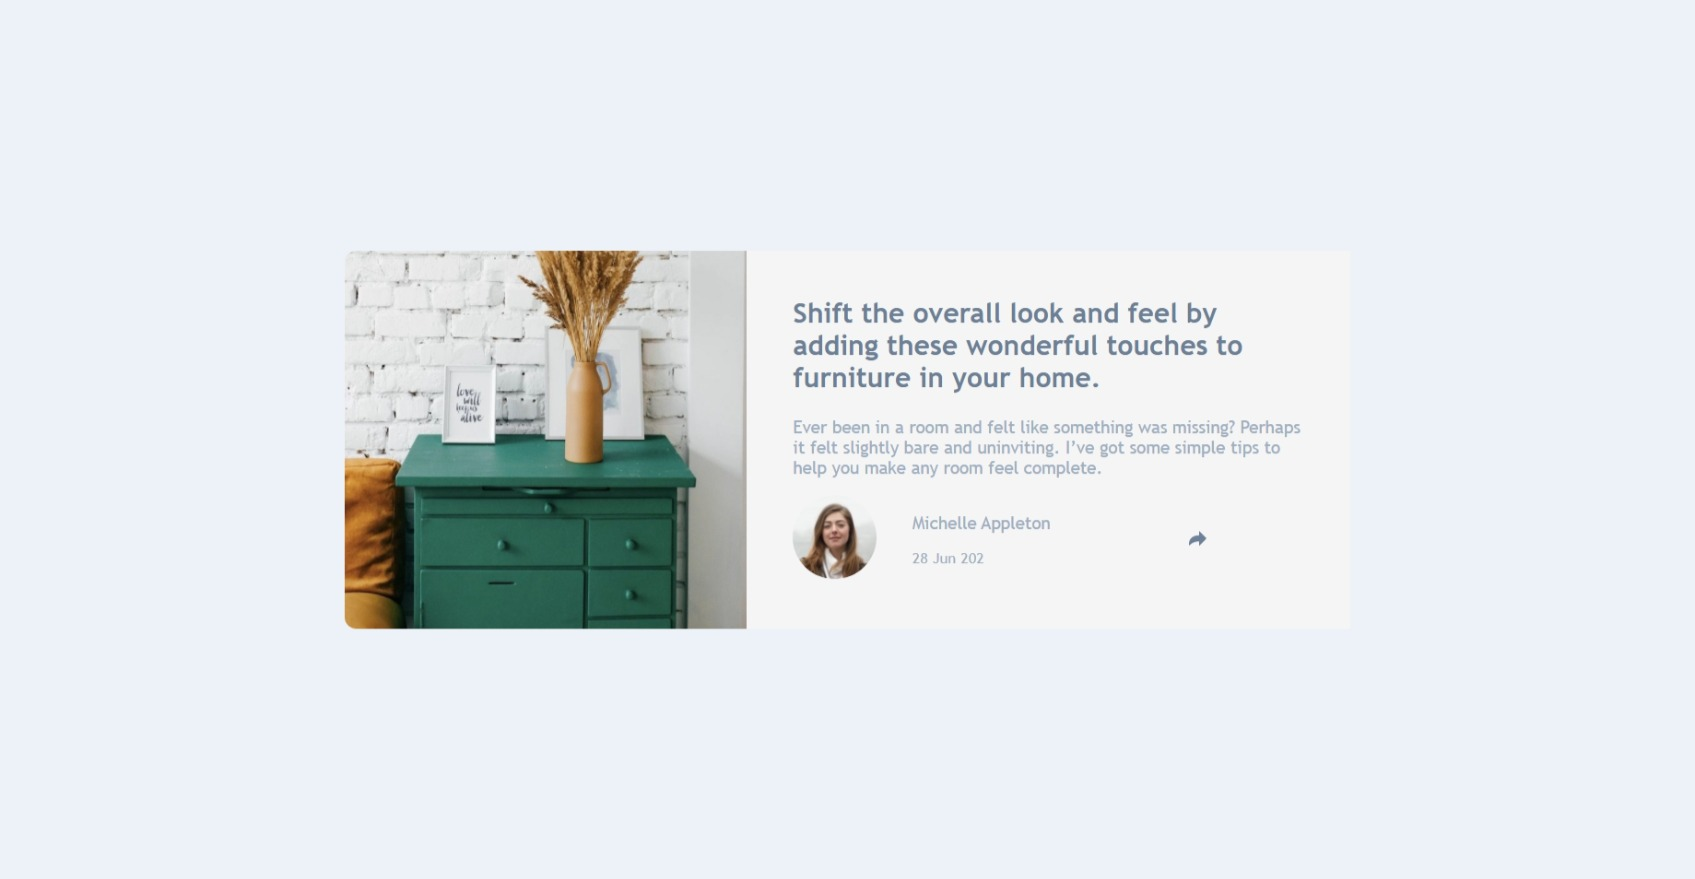
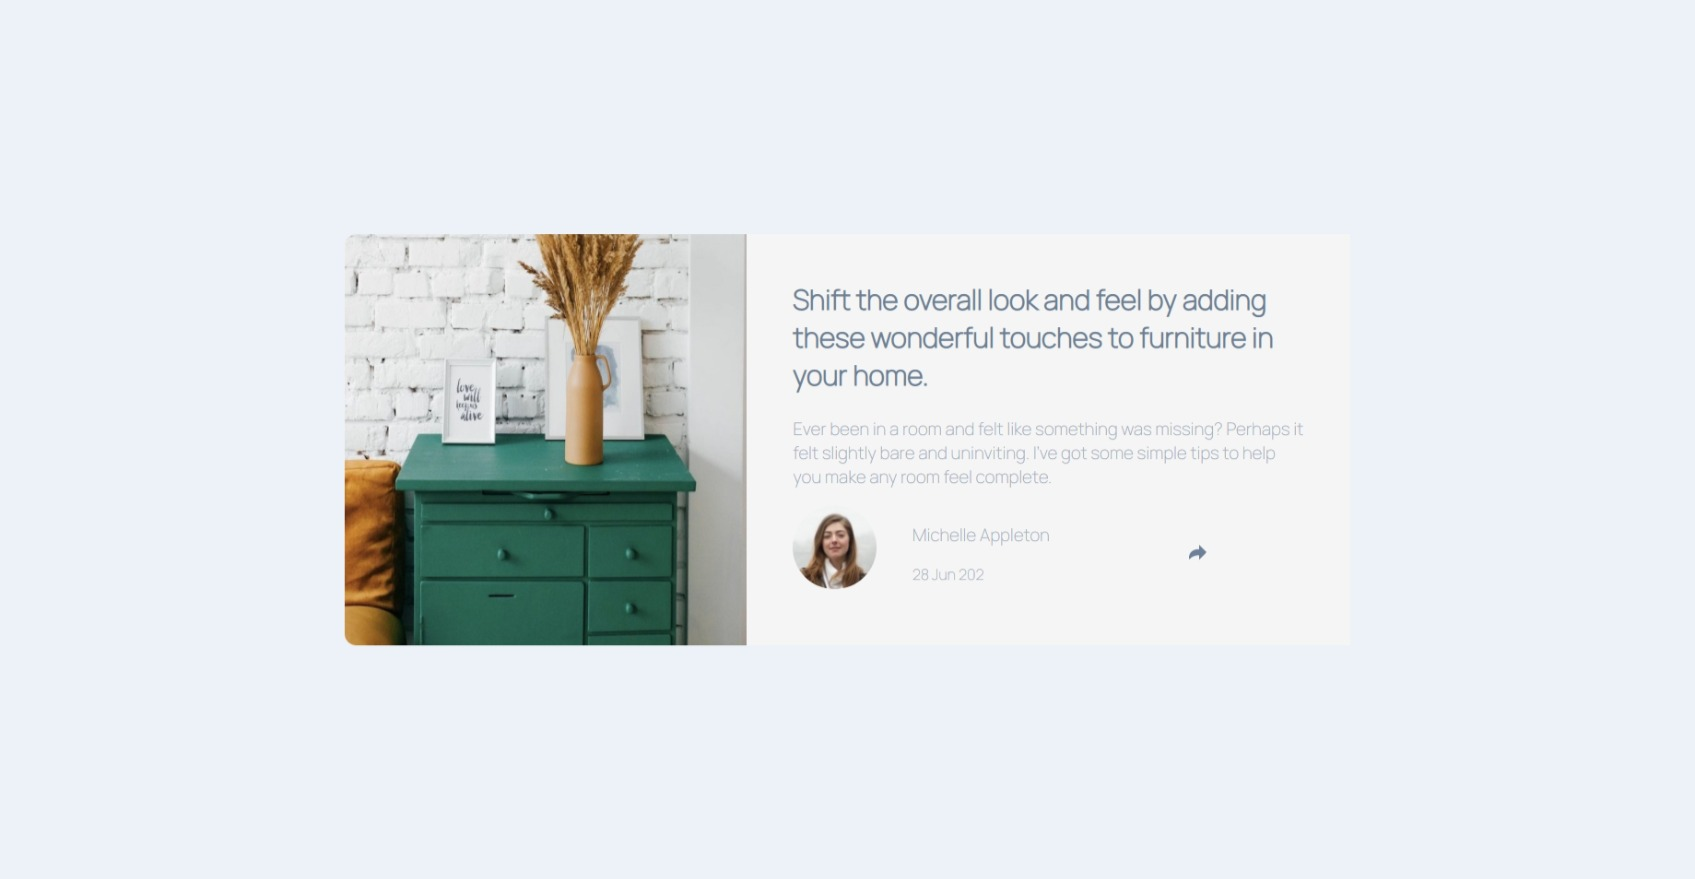
Add files via upload

Changed region(s): [[0.4602, 0.3072, 0.767, 0.6758], [0.1841, 0.5222, 0.4602, 0.7372], [0.2147, 0.2457, 0.4602, 0.4915]]

diff --git a/style.css b/style.css
@@ -1,3 +1,5 @@
+@import url("https://fonts.googleapis.com/css2?family=Manrope:wght@200&display=swap");
+
 .attribution {
   font-size: 11px;
   text-align: center;
@@ -13,7 +15,7 @@ body {
   display: flex;
   justify-content: center;
   align-items: center;
-  font-family: Manrope;
+  font-family: "Manrope", sans-serif;
 }
 
 main {
@@ -55,11 +57,13 @@ main {
 
 .heading {
   color: hsl(214, 17%, 51%);
+  font-weight: 700;
 }
 
 .paragraph {
   font-size: 15px;
   padding: 0px 0px;
+  font-weight: 500;
   color: hsl(212, 23%, 69%);
   font-family: Manrope;
   font-weight: 500;
